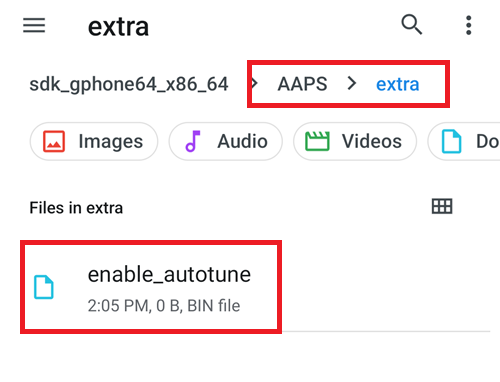
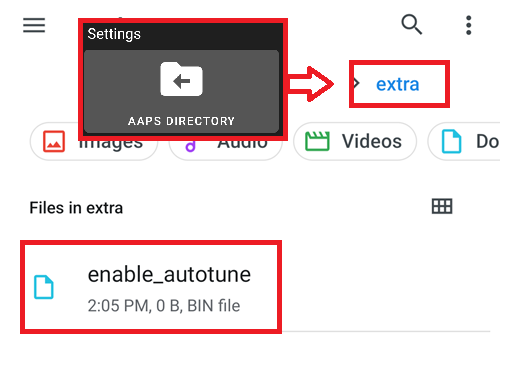
Clarify enabling Autotune

diff --git a/docs/EN/AdvancedOptions/Autotune.md b/docs/EN/AdvancedOptions/Autotune.md
@@ -8,7 +8,7 @@ Autotune Plugin is available in AAPS releases since [3.4](#version3400) but is h
 
 ## Show the Autotune plugin
 
-Create an empty file named `enable_autotune` in the `extra` subfolder of your phone AAPS folder.
+Create an empty file named `enable_autotune` in the `extra` subfolder of your phone [AAPS directory](#preferences-maintenance-settings).
 
 ![Enable Autotune](../images/Autotune/Autotune_0.png)
 
